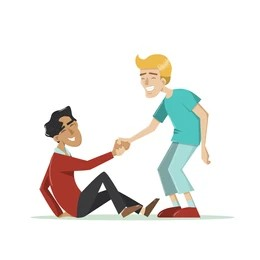
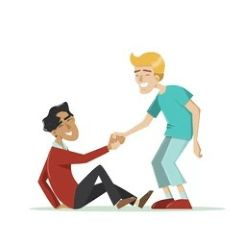
bric 7

diff --git a/index.html b/index.html
@@ -87,11 +87,11 @@
 
     <section class="flex space-around">
 
-        <img class="margin-bottom margin-top-30 marginright1" src="asset/entraide.jpg" alt="">
+        <img class="margin-bottom margin-top-30 marginright1 marginleft4" src="asset/entraide.jpg" alt="">
 
         <div class="flex">
 
-            <h3 class="margin-top-50 marginright1">
+            <h3 class="margin-top-50 marginright3 margin-bottom marginleft1">
 
                 <u class="colorwhite2 ">
 
@@ -101,7 +101,7 @@
 
             </h3>
 
-            <img class="margin-top-30 margin-bottom marginright2 marginleft" src="asset/solidarité.jpg" alt="">
+            <img class="margin-top-30 margin-bottom marginright2 marginleft2" src="asset/solidarité.jpg" alt="">
 
         </div>
 
@@ -173,7 +173,7 @@
 
         </div>
 
-        <img class="marginleft2 margin-bottom margin-top-30" src="asset/economie circulaire vert.jpg" alt="">
+        <img class="marginleft3 margin-bottom margin-top-30" src="asset/economie circulaire vert.jpg" alt="">
 
     </section>
 

diff --git a/style.css b/style.css
@@ -47,12 +47,24 @@ h2 {
     margin-top: 130px;
 }
 
+.marginleft {
+    margin-left: 20px;
+}
+
+.marginleft1 {
+    margin-left: 30px;
+}
+
 .marginleft2 {
-    margin-left: 70px;
+    margin-left: 20px;
 }
 
 .marginleft3{
-    margin-left: 90px;
+    margin-left: 70px;
+}
+
+.marginleft4{
+    margin-left: 10px;
 }
 
 .marginleft5{
@@ -67,26 +79,21 @@ h2 {
     margin-bottom: 30px;
 }
 
-.marginleft {
-    margin-left: 20px;
-}
-
 .marginright {
-    margin-right: 170px;
+    margin-right: 60px;
 }
 
 .marginright1 {
-    margin-right: 70px;
+    margin-right: 0px;
 }
 
 .marginright2 {
     margin-right: 100px;
 }
 
-.marginleft4{
-    margin-left: 650px;
+.marginright3 {
+    margin-right: 50px;
 }
-
 /*FLEX BOT*/
 
 /* rendre flexible un parent = aligner ses enfants */
